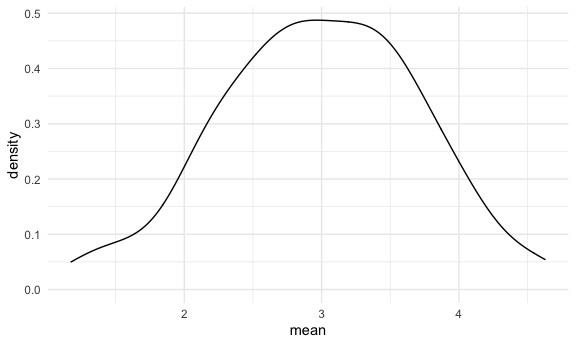
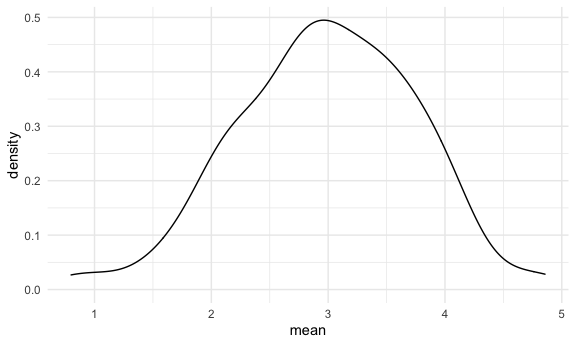
we did simulations!!!!!!!!!!

diff --git a/simulations.md b/simulations.md
@@ -31,7 +31,7 @@ sim_mean_sd(30)
     ## # A tibble: 1 x 2
     ##    mean    sd
     ##   <dbl> <dbl>
-    ## 1  2.43  3.58
+    ## 1  3.33  3.70
 
 ## Let’simulate a lot
 
@@ -52,16 +52,16 @@ bind_rows(output)
     ## # A tibble: 100 x 2
     ##     mean    sd
     ##    <dbl> <dbl>
-    ##  1  2.97  3.98
-    ##  2  4.65  3.32
-    ##  3  2.07  3.72
-    ##  4  2.95  4.62
-    ##  5  2.10  4.32
-    ##  6  3.34  3.42
-    ##  7  3.92  3.37
-    ##  8  2.48  3.74
-    ##  9  3.69  2.77
-    ## 10  2.13  3.67
+    ##  1  3.53  3.18
+    ##  2  3.44  3.84
+    ##  3  3.45  3.53
+    ##  4  1.68  3.69
+    ##  5  3.95  4.22
+    ##  6  3.27  4.34
+    ##  7  2.05  4.05
+    ##  8  3.10  3.72
+    ##  9  3.55  4.11
+    ## 10  3.87  3.79
     ## # … with 90 more rows
 
 ``` r
@@ -98,7 +98,7 @@ sim_results %>%
     ## # A tibble: 1 x 2
     ##   avg_samp_mean sd_samp_mean
     ##           <dbl>        <dbl>
-    ## 1          2.99        0.727
+    ## 1          2.98        0.756
 
 ``` r
 sim_results %>% 
@@ -106,3 +106,127 @@ sim_results %>%
 ```
 
 <img src="simulations_files/figure-gfm/unnamed-chunk-5-2.png" width="90%" />
+
+## Let’s try other sample sizes.
+
+``` r
+n_list =
+  list(
+    "n = 30" = 30,
+    "n = 60" = 60,
+    "n = 120" = 120,
+    "n = 240" = 240
+  )
+## this is the input list
+
+## want to run simulation 100 times for each
+output = vector("list", length = 4)
+
+## output[[1]] = f(input[[1]]) this is what we want conceptually
+
+output[[1]] = rerun(100, sim_mean_sd(samp_size = n_list[[1]])) %>% bind_rows()
+output[[2]] = rerun(100, sim_mean_sd(samp_size = n_list[[2]])) %>% bind_rows()
+## and so on
+
+## for loop below - this is a simulation:
+for (i in 1:4) {
+  
+  output[[i]] =
+    rerun(100, sim_mean_sd(samp_size = n_list[[i]])) %>% 
+    bind_rows()
+  
+}
+```
+
+Now try to put all of this in a process Use rerun functions, map
+functions, mutate functions - the idea is 4 sample sizes, run simulation
+100x for each sample size
+
+``` r
+sim_results =
+  tibble(
+    sample_size = c(30, 60, 120, 240)
+  ) %>% 
+    mutate(
+      output_lists = map(.x = sample_size, ~ rerun(10, sim_mean_sd(.x))),
+      estimate_df = map(output_lists, bind_rows)
+    ) %>% 
+    select(-output_lists) %>% 
+    unnest(estimate_df)
+
+sim_results =
+  tibble(
+    sample_size = c(30, 60, 120, 240)
+  ) %>% 
+    mutate(
+      output_lists = map(.x = sample_size, ~ rerun(1000, sim_mean_sd(.x))),
+      estimate_df = map(output_lists, bind_rows)
+    ) %>% 
+    select(-output_lists) %>% 
+    unnest(estimate_df)
+```
+
+Do some data frame things.
+
+``` r
+sim_results %>% 
+  mutate(
+    sample_size = str_c("n =", sample_size),
+    sample_size = fct_inorder(sample_size)
+  ) %>% 
+  ggplot(aes(x = sample_size, y = mean)) +
+  geom_boxplot()
+```
+
+<img src="simulations_files/figure-gfm/unnamed-chunk-8-1.png" width="90%" />
+
+``` r
+sim_results %>% 
+  mutate(
+    sample_size = str_c("n =", sample_size),
+    sample_size = fct_inorder(sample_size)
+  ) %>% 
+  ggplot(aes(x = sample_size, y = mean)) +
+  geom_violin()
+```
+
+<img src="simulations_files/figure-gfm/unnamed-chunk-8-2.png" width="90%" />
+
+``` r
+sim_results %>% 
+  group_by(sample_size) %>% 
+  summarize(
+    avg_samp_mean = mean(mean),
+    sd_samp_mean = sd(mean)
+  )
+```
+
+    ## `summarise()` ungrouping output (override with `.groups` argument)
+
+    ## # A tibble: 4 x 3
+    ##   sample_size avg_samp_mean sd_samp_mean
+    ##         <dbl>         <dbl>        <dbl>
+    ## 1          30          3.00        0.701
+    ## 2          60          3.01        0.523
+    ## 3         120          3.00        0.376
+    ## 4         240          3.00        0.267
+
+What if I looked at a binomial distribution?? Could repeat using
+binomial distribution
+
+``` r
+sim_mean_sd = function(samp_size, mu = 3, sigma = 4) {
+  
+  sim_data =
+    tibble(
+      x = rbinom(n = samp_size, mean = mu, sd = sigma)
+  )
+
+  sim_data %>% 
+    summarize(
+      mean = mean(x),
+      sd = sd(x)
+  ) 
+  
+}
+```
